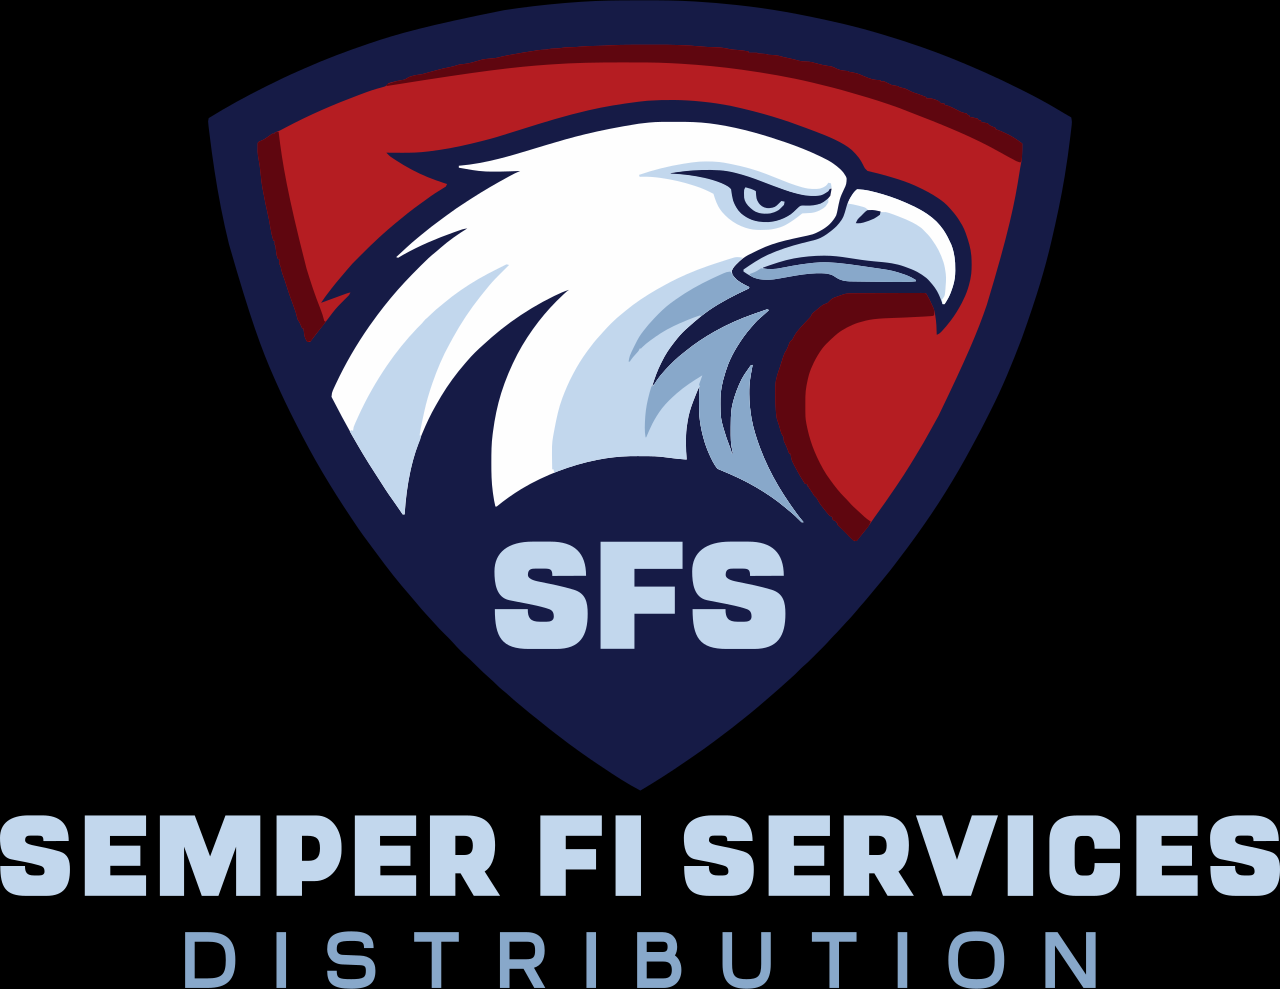
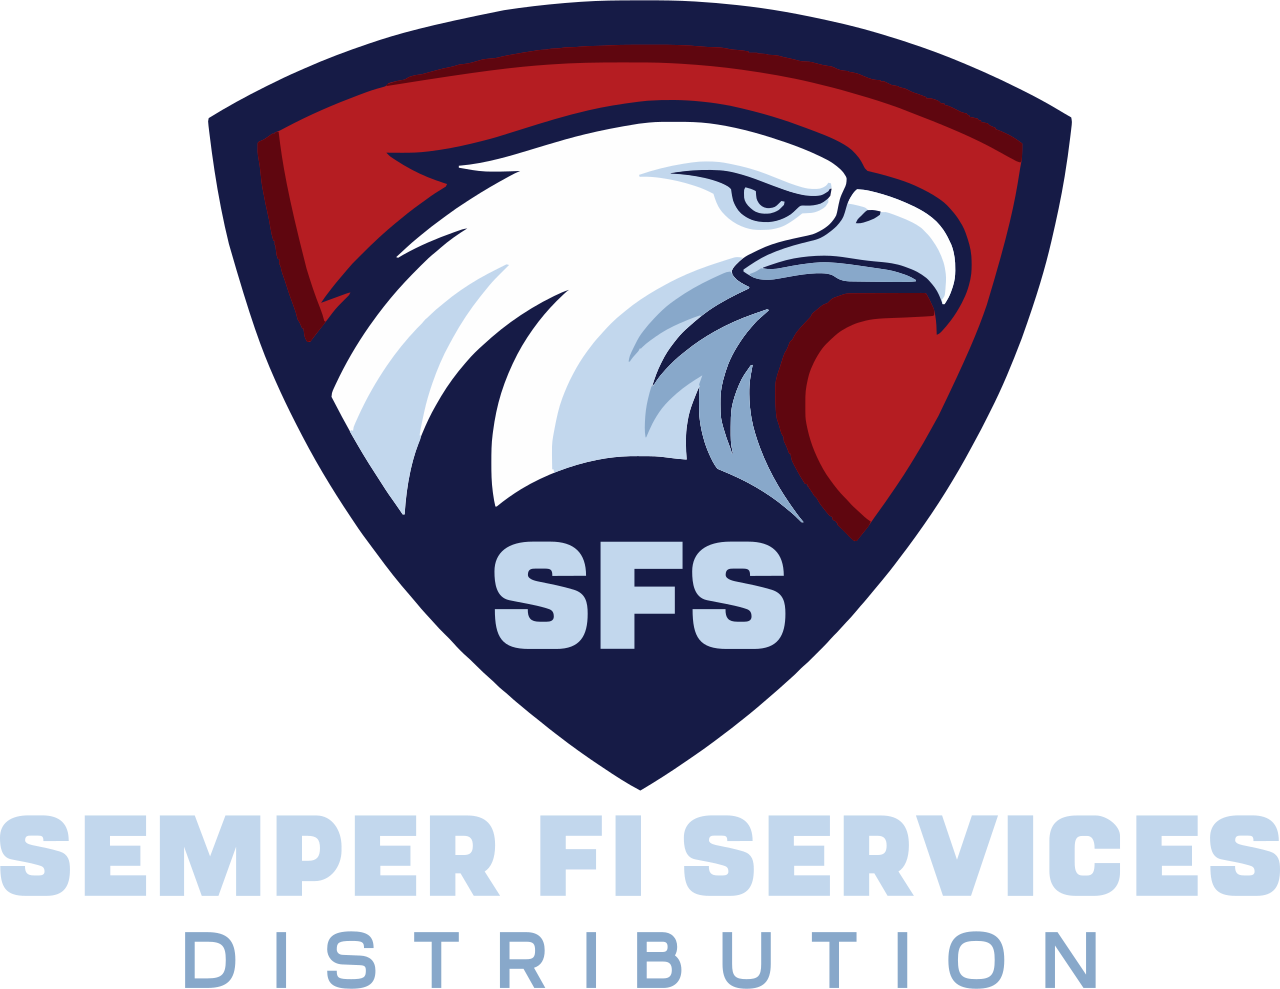
web manifest

diff --git a/index.html b/index.html
@@ -1,9 +1,12 @@
 <!DOCTYPE html>
 <html lang="en">
 <head>
-    <link rel="icon" type="image/png" href="assets/images/brand/favicon.png?v=6">
-    <link rel="apple-touch-icon" sizes="180x180" href="assets/images/brand/site-icon-192.png?v=6">
-    <meta name="msapplication-TileImage" content="assets/images/brand/site-icon-192.png?v=6">
+    <link rel="icon" type="image/png" href="assets/images/brand/logo2.png?v=8">
+    <link rel="shortcut icon" href="assets/images/brand/logo2.png?v=8">
+    <link rel="apple-touch-icon" href="assets/images/brand/logo2.png?v=8">
+    <link rel="manifest" href="site.webmanifest?v=8">
+    <meta name="msapplication-TileImage" content="assets/images/brand/logo2.png?v=8">
+    <meta name="theme-color" content="#123f73">
     <meta charset="UTF-8" />
     <meta name="viewport" content="width=device-width, initial-scale=1.0" />
 
@@ -21,24 +24,24 @@
     <meta property="og:description" content="Veteran-led aerospace and industrial parts distributor supporting government supply contracts with traceability, documentation control, NSN sourcing, and AS9120-aligned processes." />
     <meta property="og:url" content="https://sfsdistribution.com/" />
     <meta property="og:type" content="website" />
-    <meta property="og:image" content="https://sfsdistribution.com/assets/images/brand/og-image.png?v=5" />
-    <meta name="twitter:image" content="https://sfsdistribution.com/assets/images/brand/og-image.png?v=5" />
+    <meta property="og:image" content="https://sfsdistribution.com/assets/images/brand/og-image.png?v=7" />
+    <meta name="twitter:image" content="https://sfsdistribution.com/assets/images/brand/og-image.png?v=7" />
 
     <script type="application/ld+json">
-                {
-                    "@context": "https://schema.org",
-                    "@type": "Organization",
-                    "name": "Semper Fi Services LLC",
-                    "alternateName": "Semper Fi Services Distribution",
-                    "url": "https://sfsdistribution.com",
-                    "logo": "https://sfsdistribution.com/assets/images/brand/logo.png",
-                    "description": "Veteran-led aerospace parts distributor and government supplier providing NSN parts sourcing, DLA contract support, traceable documentation, MIL-STD packaging, and AS9120-aligned distribution processes.",
-                    "email": "[email redacted]",
-                    "telephone": "[phone redacted]",
-                    "sameAs": [
-                        "https://sfsdistribution.com"
-                    ]
-                }
+        {
+            "@context": "https://schema.org",
+            "@type": "Organization",
+            "name": "Semper Fi Services LLC",
+            "alternateName": "Semper Fi Services Distribution",
+            "url": "https://sfsdistribution.com",
+            "logo": "https://sfsdistribution.com/assets/images/brand/logo.png",
+            "description": "Veteran-led aerospace parts distributor and government supplier providing NSN parts sourcing, DLA contract support, traceable documentation, MIL-STD packaging, and AS9120-aligned distribution processes.",
+            "email": "[email redacted]",
+            "telephone": "[phone redacted]",
+            "sameAs": [
+                "https://sfsdistribution.com"
+            ]
+        }
     </script>
 
     <link rel="stylesheet" href="css/variables.css">